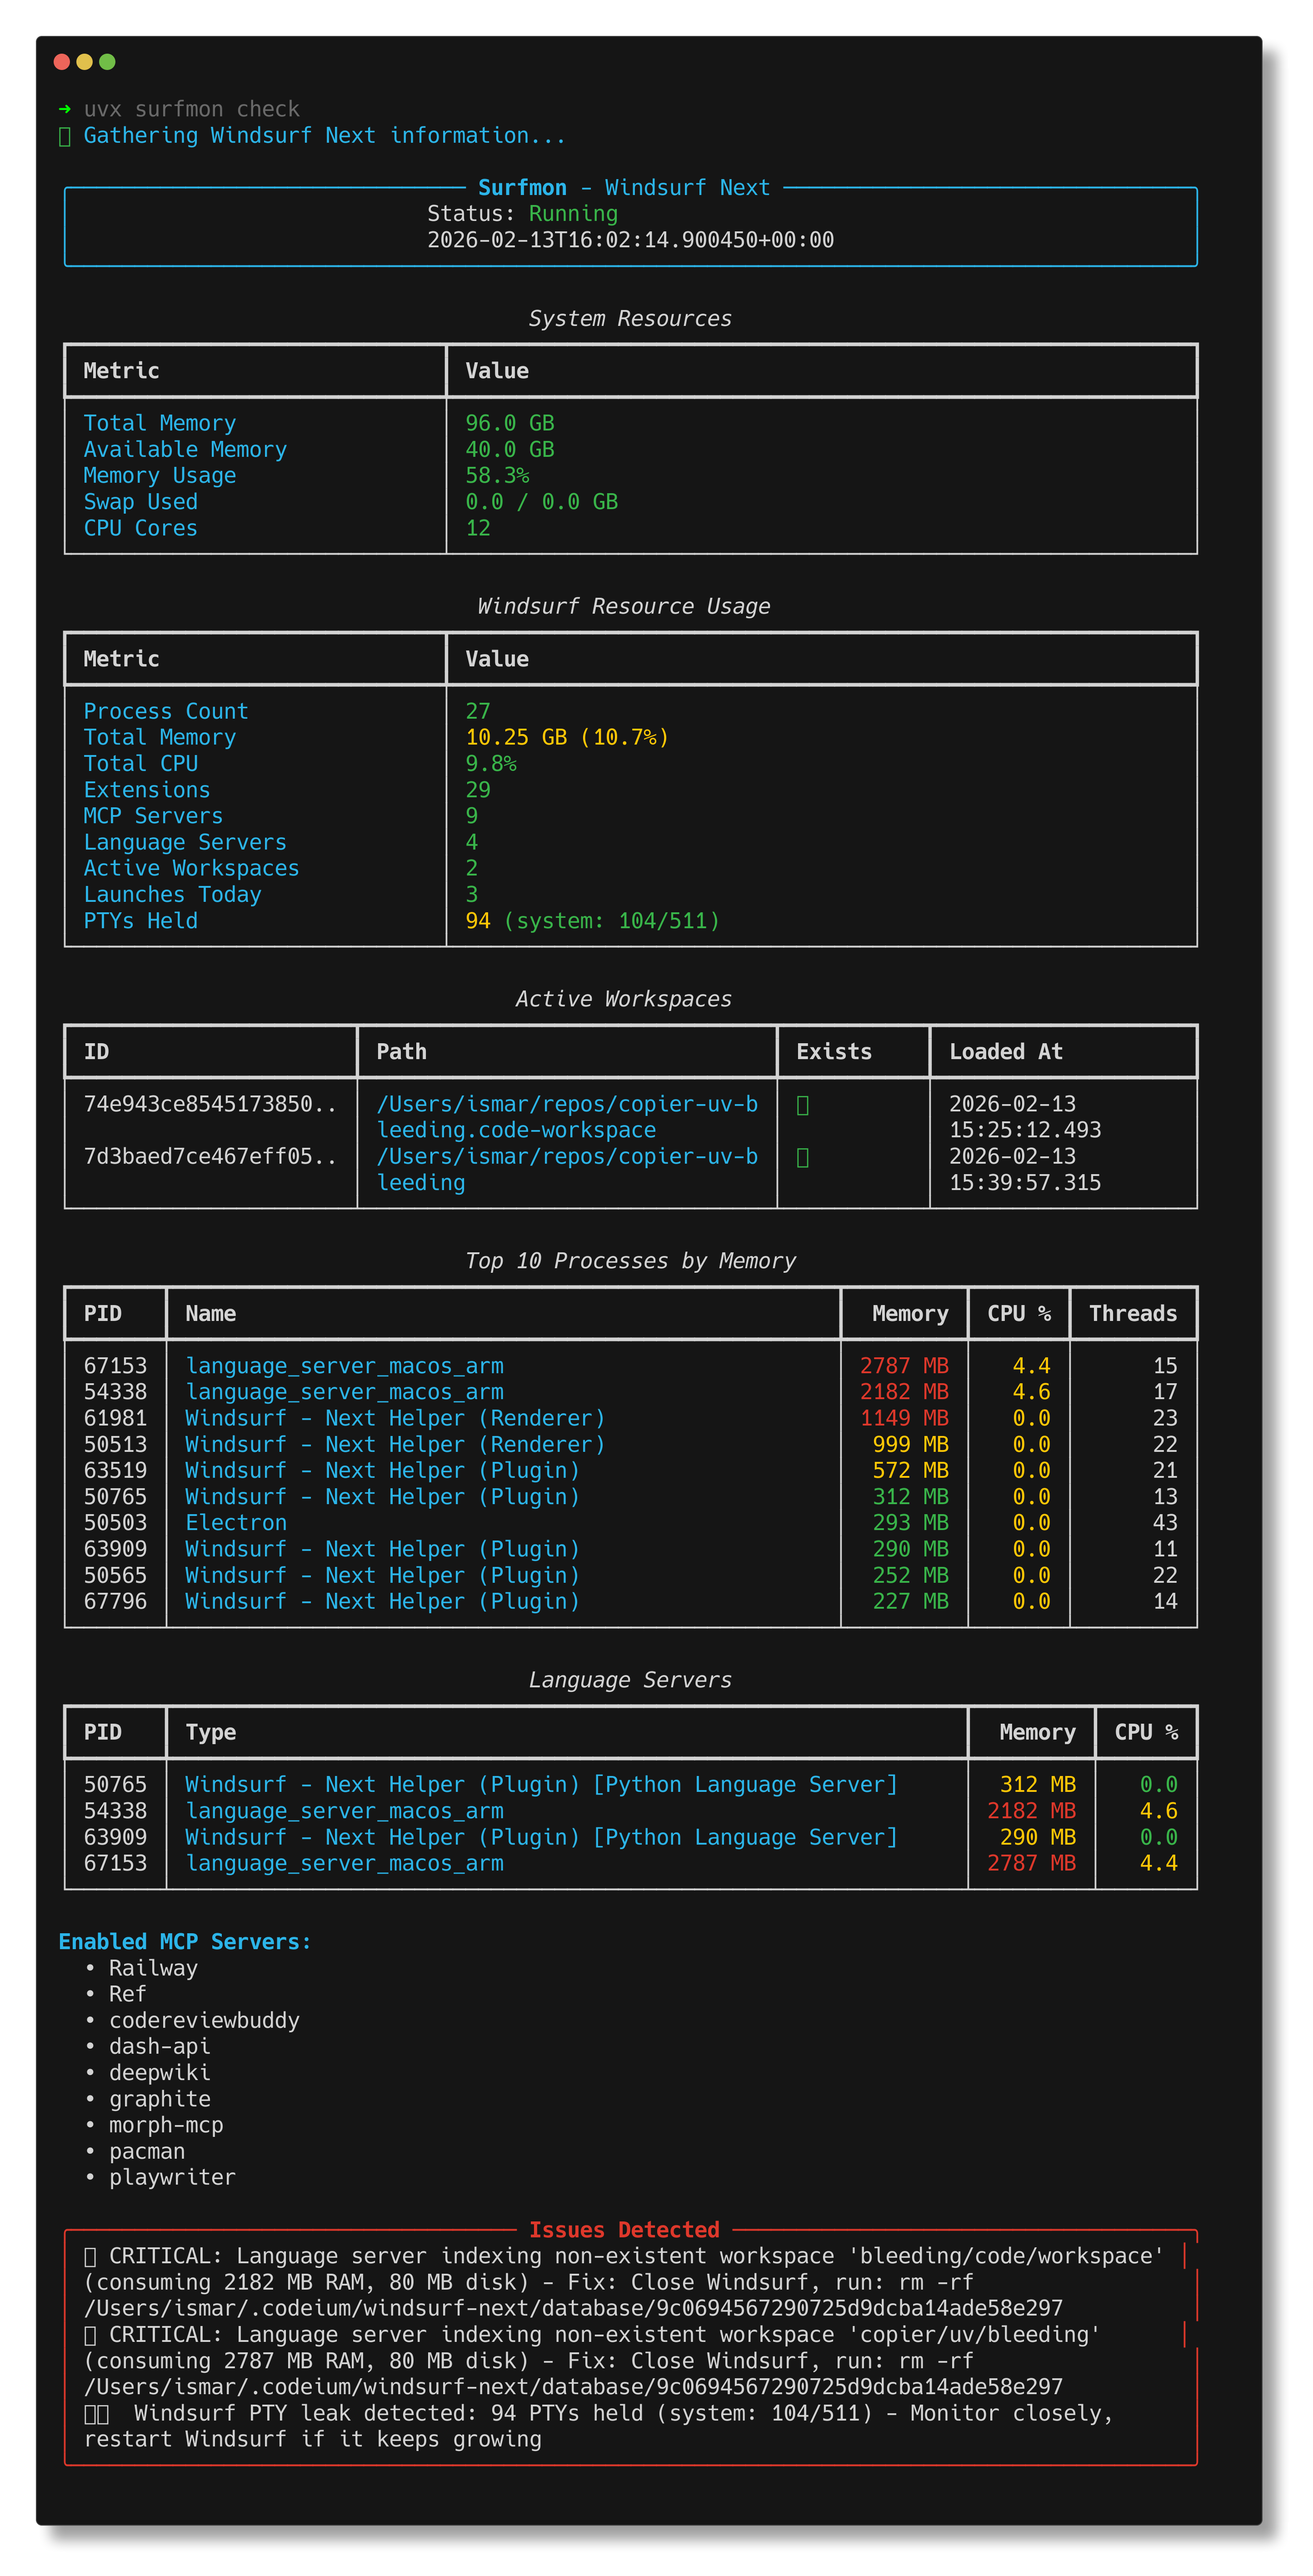
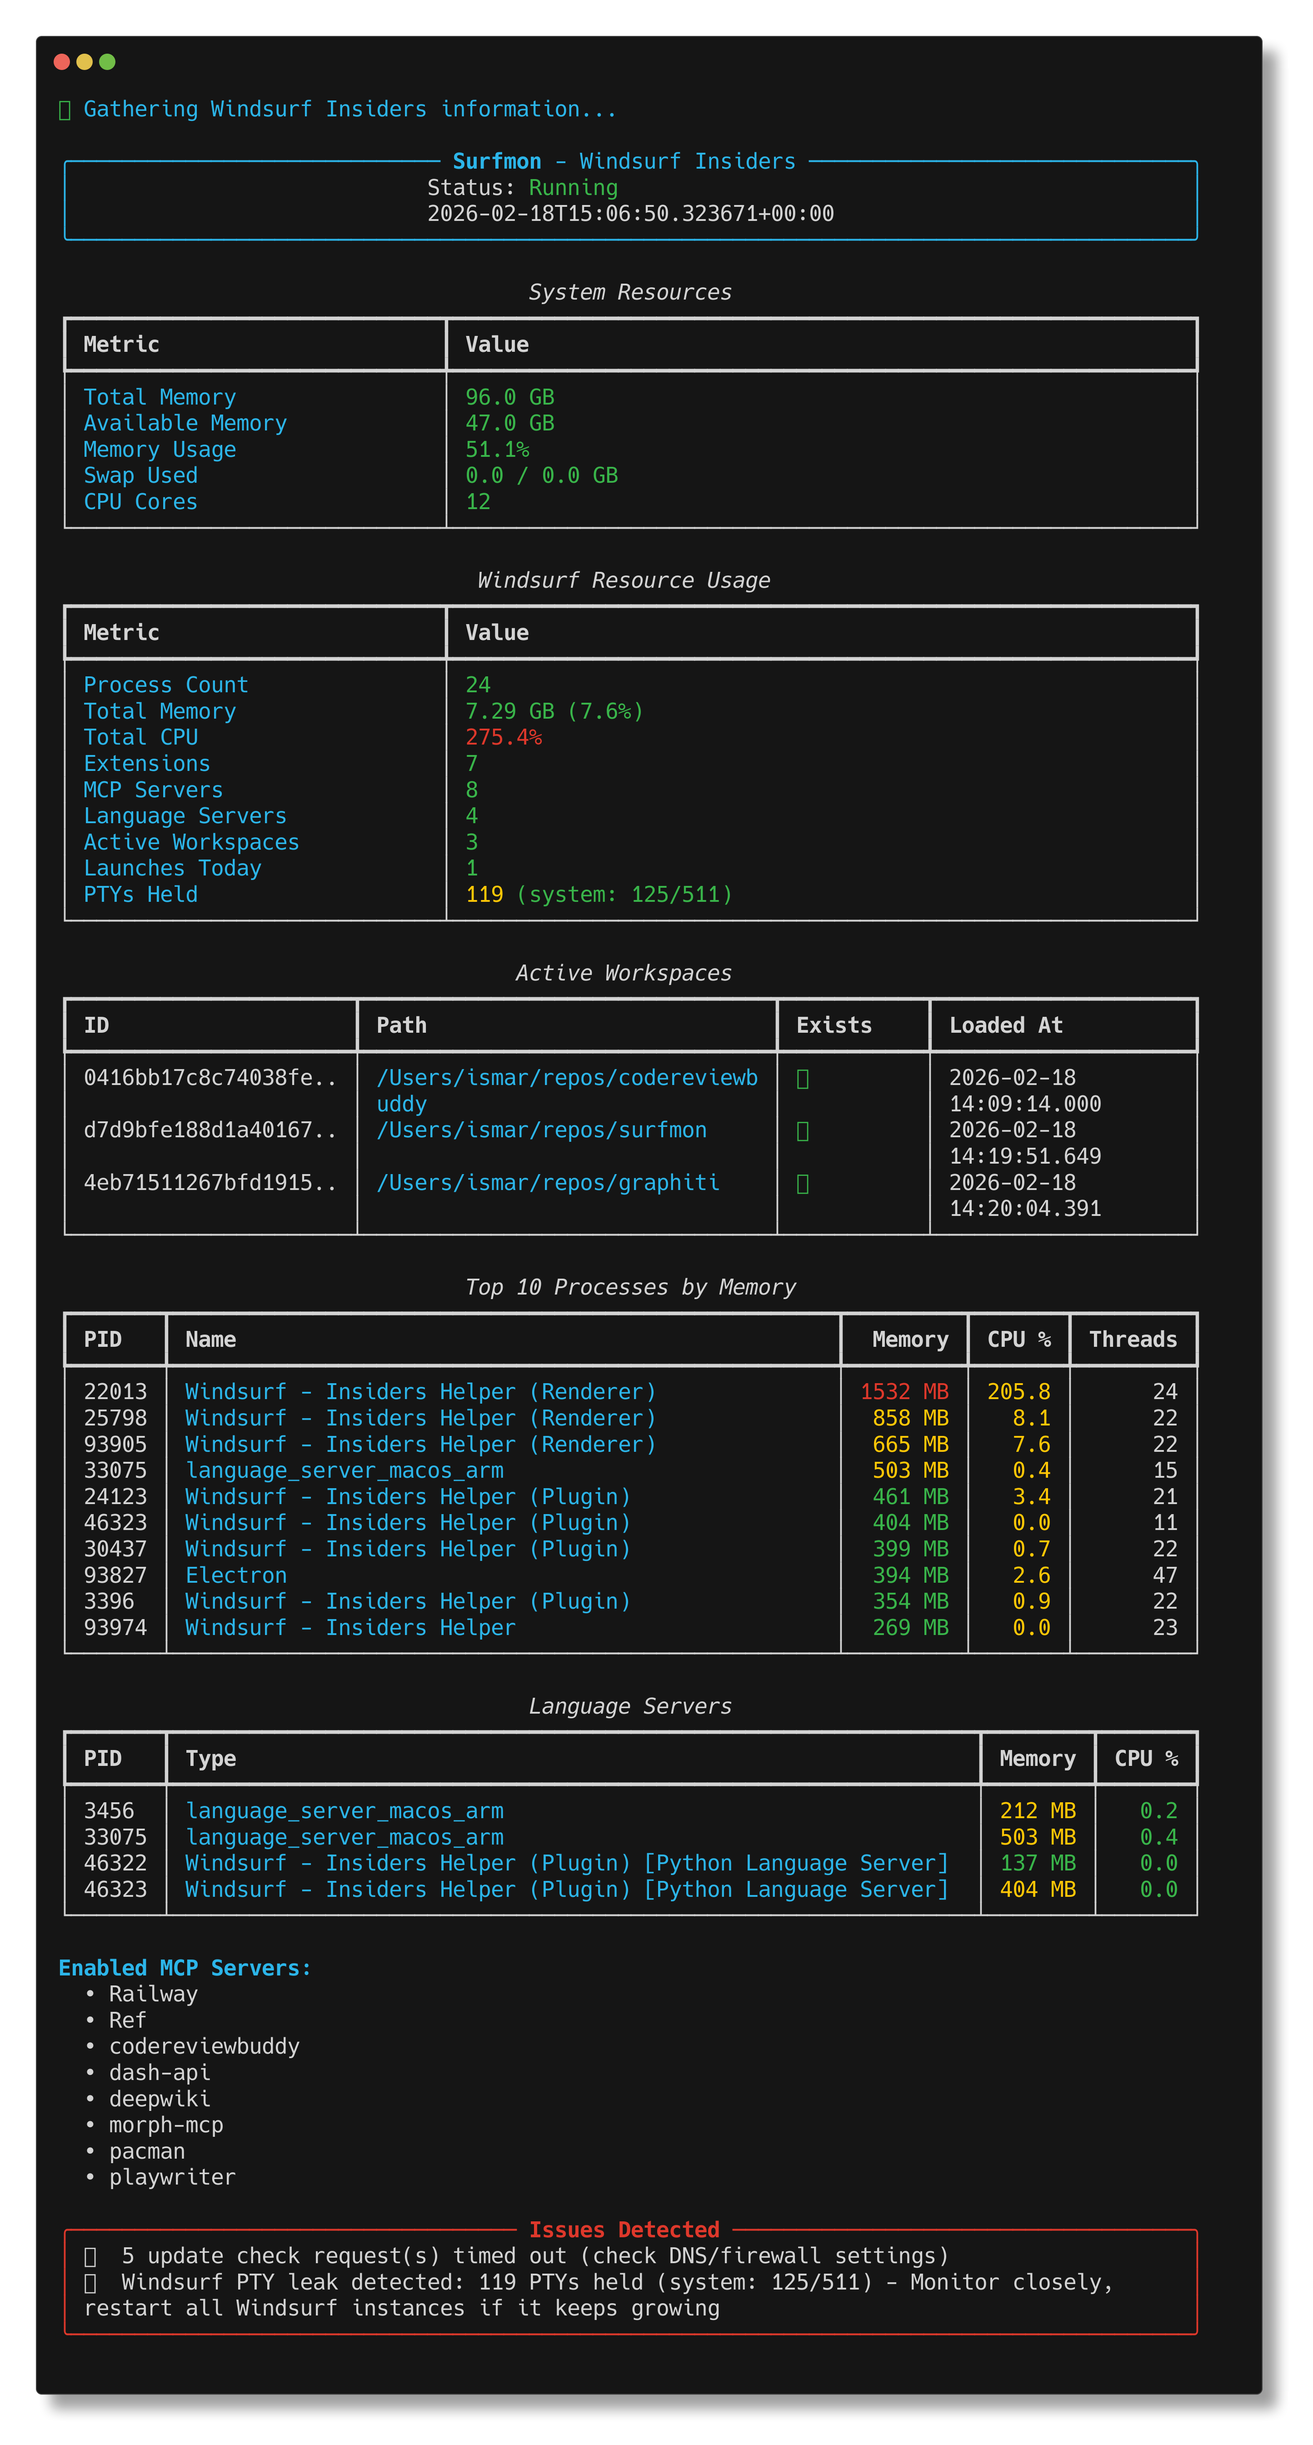
docs: updates README to reflect latest changes (#44)
## Summary

Updates README to reflect changes from PRs #42 and #43.

## Changes

- **Insiders support**: Added Windsurf Insiders to supported targets list
- **Required `--target` flag**: Updated all command examples (`check`, `watch`, `cleanup`, `compare`) to include `-t` flag, which is now mandatory for live commands
- **Target Selection section**: Replaced "Auto-Detection" section with "Target Selection" documenting the required `--target` flag and `SURFMON_TARGET` env var alternative
- **Generic DNS/firewall references**: Replaced NextDNS-specific troubleshooting with generic DNS/firewall guidance
- **Updated screenshot**: Regenerated `check-basic.png` with fixed panel borders and current output format

diff --git a/README.md b/README.md
@@ -11,7 +11,7 @@
 [![Python 3.14+](https://img.shields.io/badge/python-3.14+-blue.svg)](https://www.python.org/downloads/)
 [![coverage](https://img.shields.io/endpoint?url=https://gist.githubusercontent.com/ichoosetoaccept/759ab8d29e8650758515a72c9d8262d2/raw/coverage.json)](https://github.com/detailobsessed/surfmon/actions?query=workflow%3Aci)
 
-**Surf**ace **Mon**itor for Windsurf IDE — a performance monitoring and diagnostics tool for [Windsurf](https://codeium.com/windsurf) (Stable and Next).
+**Surf**ace **Mon**itor for Windsurf IDE — a performance monitoring and diagnostics tool for [Windsurf](https://codeium.com/windsurf) (Stable, Next, and Insiders).
 
 ## Table of Contents
 
@@ -26,7 +26,7 @@
   - [cleanup — Remove Orphaned Processes](#cleanup--remove-orphaned-processes)
   - [prune — Deduplicate Watch Reports](#prune--deduplicate-watch-reports)
 - [What It Monitors](#what-it-monitors)
-- [Auto-Detection](#auto-detection)
+- [Target Selection](#target-selection)
 - [Exit Codes](#exit-codes)
 - [Common Issues](#common-issues)
 - [Development](#development)
@@ -51,8 +51,8 @@ uv tool install surfmon
 Or run directly without installing:
 
 ```bash
-uvx surfmon check    # Using uvx
-pipx run surfmon check    # Using pipx
+uvx surfmon check -t stable    # Using uvx
+pipx run surfmon check -t stable    # Using pipx
 ```
 
 For development:
@@ -66,17 +66,17 @@ uv sync
 ## Quick Start
 
 ```bash
-# One-shot health check
-surfmon check
+# One-shot health check (--target is required)
+surfmon check -t stable
 
 # Verbose output with all process details
-surfmon check -v
+surfmon check -t stable -v
 
 # Save reports (auto-named with timestamp, enables verbose output)
-surfmon check -s
+surfmon check -t next -s
 
-# Target a specific Windsurf installation
-surfmon check -t next
+# Target Windsurf Insiders
+surfmon check -t insiders
 ```
 
 ![Basic Check](docs/screenshots/check-basic.png)
@@ -96,12 +96,12 @@ surfmon check -t next
 The main command. Shows system resources, Windsurf memory/CPU, active workspaces, top processes, and language servers in consistent fixed-width tables.
 
 ```bash
-surfmon check                        # Basic check
-surfmon check -v                     # Verbose (all processes)
-surfmon check -s                     # Auto-save JSON + Markdown reports (enables verbose)
-surfmon check --json report.json     # Save JSON to specific path
-surfmon check --md report.md         # Save Markdown to specific path
-surfmon check --json r.json --md r.md  # Save both formats with custom names
+surfmon check -t stable                        # Basic check
+surfmon check -t stable -v                     # Verbose (all processes)
+surfmon check -t next -s                       # Auto-save JSON + Markdown reports (enables verbose)
+surfmon check -t stable --json report.json     # Save JSON to specific path
+surfmon check -t stable --md report.md         # Save Markdown to specific path
+surfmon check -t stable --json r.json --md r.md  # Save both formats with custom names
 ```
 
 ### `watch` — Live Monitoring Dashboard
@@ -109,10 +109,10 @@ surfmon check --json r.json --md r.md  # Save both formats with custom names
 Continuously monitors Windsurf with a live-updating terminal dashboard. Saves periodic JSON snapshots for historical analysis.
 
 ```bash
-surfmon watch                          # Default: 5s interval, save every 5min to ../reports/watch
-surfmon watch -i 10 -s 600             # Check every 10s, save every 10min
-surfmon watch -i 10 -n 720             # 720 checks = 2 hours
-surfmon watch -o ~/windsurf-reports    # Custom output directory
+surfmon watch -t stable                    # Default: 5s interval, save every 5min
+surfmon watch -t next -i 10 -s 600         # Check every 10s, save every 10min
+surfmon watch -t insiders -i 10 -n 720     # 720 checks = 2 hours
+surfmon watch -t stable -o ~/reports       # Custom output directory
 ```
 
 ![Watch Dashboard](docs/screenshots/watch.gif)
@@ -138,9 +138,9 @@ surfmon analyze reports/watch/20260204-134518/ --plot --output analysis.png
 ### `compare` — Before/After Diff
 
 ```bash
-surfmon check --json before.json
+surfmon check -t stable --json before.json
 # ... make changes ...
-surfmon check --json after.json
+surfmon check -t stable --json after.json
 surfmon compare before.json after.json
 ```
 
@@ -151,8 +151,8 @@ surfmon compare before.json after.json
 Detects and kills orphaned `chrome_crashpad_handler` processes left behind after Windsurf exits. Windsurf must be closed for this command to work.
 
 ```bash
-surfmon cleanup             # Interactive (asks for confirmation)
-surfmon cleanup --force     # No confirmation
+surfmon cleanup -t stable           # Interactive (asks for confirmation)
+surfmon cleanup -t next --force     # No confirmation
 ```
 
 ### `prune` — Deduplicate Watch Reports
@@ -178,11 +178,26 @@ surfmon prune reports/watch/20260204-134518/
 
 **PTY Usage** — Windsurf PTY allocation vs system limits
 
-**Issues** — Orphaned crash handlers, extension host crashes, update service timeouts (NextDNS), telemetry failures, `logs` directory in extensions folder
+**Issues** — Orphaned crash handlers, extension host crashes, update service timeouts, telemetry failures, `logs` directory in extensions folder
 
-## Auto-Detection
+## Target Selection
 
-Surfmon auto-detects whether Windsurf Stable or Windsurf Next is running and targets the active installation. Override with `-t stable` or `-t next`, or set `SURFMON_TARGET` in your environment.
+Surfmon requires you to specify which Windsurf installation to monitor. Use `--target` (`-t`) with one of `stable`, `next`, or `insiders`:
+
+```bash
+surfmon check -t stable      # Windsurf Stable
+surfmon check -t next        # Windsurf Next
+surfmon check -t insiders    # Windsurf Insiders
+```
+
+Alternatively, set `SURFMON_TARGET` in your environment to avoid passing `-t` every time:
+
+```bash
+export SURFMON_TARGET=insiders
+surfmon check
+```
+
+The `--target` flag is required for `check`, `watch`, and `cleanup`. Commands that operate on saved files (`compare`, `prune`, `analyze`) do not require it.
 
 ## Exit Codes
 
@@ -196,7 +211,7 @@ Surfmon auto-detects whether Windsurf Stable or Windsurf Next is running and tar
 | ----- | ----- | --- |
 | Orphaned crash handlers | Crash reporters not cleaned up on exit | `surfmon cleanup --force` |
 | `logs` directory error | Marimo extension creates logs in wrong place | Move `~/.windsurf/extensions/logs` |
-| Update service timeouts | NextDNS blocking `*.codeium.com` | Whitelist in NextDNS |
+| Update service timeouts | DNS or firewall blocking update checks | Check DNS/firewall settings |
 | High memory usage | Too many language servers or extensions | Disable unused extensions |
 
 ## Development
